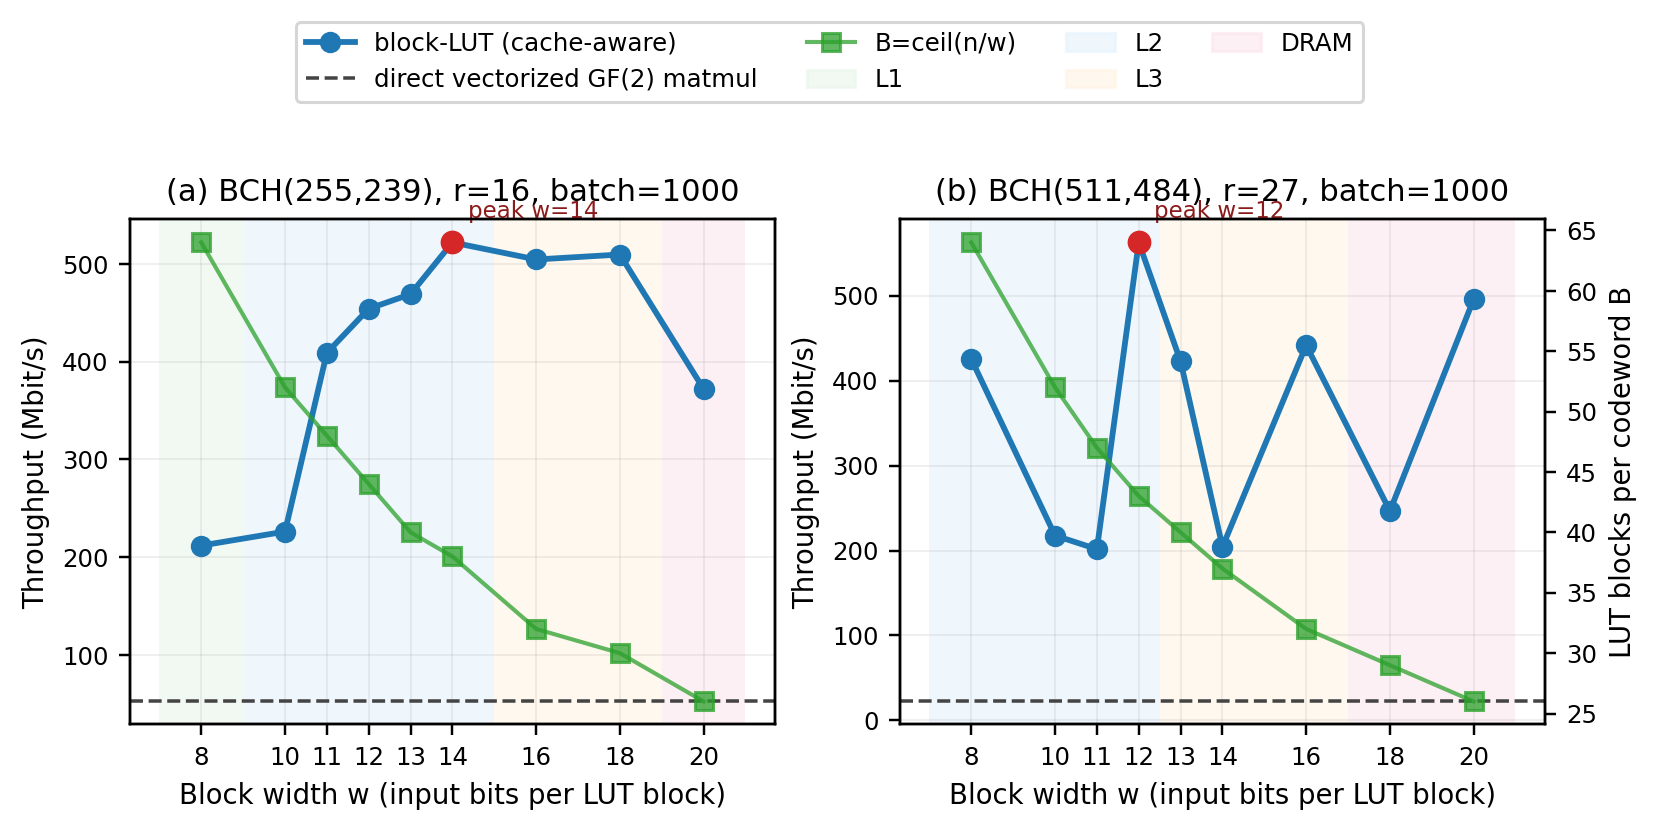
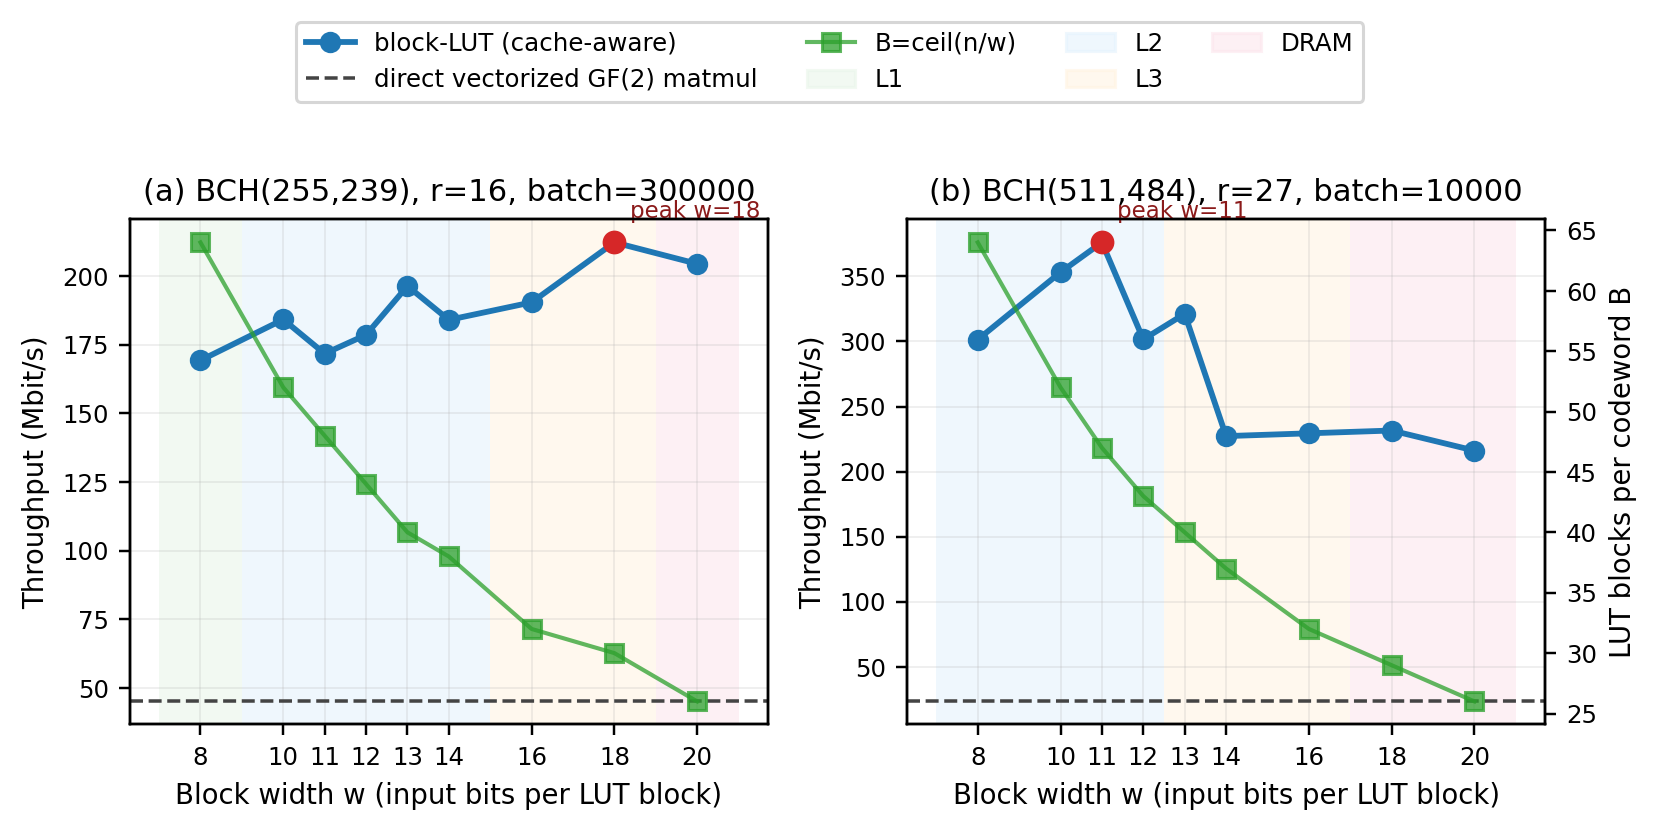
add round30 high-repetition figure data

diff --git a/scripts/plot_paper_fig3.py b/scripts/plot_paper_fig3.py
@@ -24,6 +24,10 @@ DEFAULT_OUTPUT_DIR = ROOT / "results" / "figures"
 OUTPUT_STEM = "fig3_block_width_cache_sweep"
 TASK = "syndrome"
 PREFERRED_BATCH = 1000
+PREFERRED_BATCH_BY_PROFILE = {
+    "bch_255_239_r16": 300_000,
+    "bch_511_484_r27": 10_000,
+}
 BLOCK_WIDTH_LABEL = "Block width w (input bits per LUT block)"
 
 CACHE_COLORS = {
@@ -92,6 +96,9 @@ def select_batch(rows: list[dict[str, Any]], profile: str) -> int:
         and _is_true(row["correctness_passed"])
     ]
     batches = sorted({int(row["batch_size"]) for row in lut_rows})
+    profile_preference = PREFERRED_BATCH_BY_PROFILE.get(profile)
+    if profile_preference in batches:
+        return int(profile_preference)
     if PREFERRED_BATCH in batches:
         return PREFERRED_BATCH
     best_batch = batches[0]

diff --git a/review_gpt/round_30_summary.md b/review_gpt/round_30_summary.md
@@ -220,6 +220,48 @@ Plot scripts:
 
 Fig. 3 now uses block-width notation `w` in labels and annotations.
 
+## High-Repeat Fig. 2/Fig. 3 Data
+
+After the review snapshot, the fixed-map benchmarks were rerun with higher
+repeat count:
+
+```powershell
+python -B -m benchmarks.bench_block_width_cache_sweep --batch-sizes 1000,10000,100000,300000 --block-widths 8,10,11,12,13,14,16,18,20 --repeats 15 --warmups 3 --max-in-memory-rows 300000 --max-timed-batch-size 300000 --max-galois-batch-size 1000 --seed 20260830 --output results/raw/block_width_cache_sweep_highrep.csv
+python -B -m benchmarks.bench_fixed_map_three_backend --batch-sizes 1,10,100,1000,10000,100000,300000 --repeats 15 --warmups 3 --block-width-source results/raw/block_width_cache_sweep_highrep.csv --selection-batch-size 100000 --max-in-memory-rows 300000 --max-timed-batch-size 300000 --max-galois-batch-size 1000 --seed 20260831 --output results/raw/fixed_map_three_backend_highrep.csv
+```
+
+Outputs:
+
+- `results/raw/block_width_cache_sweep_highrep.csv`
+- `results/raw/fixed_map_three_backend_highrep.csv`
+
+Summary:
+
+- block-width high-repeat: 176 rows, 176 exactness pass, 164 timed;
+- three-backend high-repeat: 96 rows, 96 exactness pass, 72 timed;
+- repeats: `15`;
+- warmups: `3`;
+- timed batch sizes extend to `300000`;
+- per-codeword galois timing is capped at batch `1000`.
+
+The regenerated figures now read from these high-repeat CSVs:
+
+```powershell
+python scripts\plot_paper_fig2.py --csv results\raw\fixed_map_three_backend_highrep.csv
+python scripts\plot_paper_fig3.py --csv results\raw\block_width_cache_sweep_highrep.csv
+```
+
+Fig. 3 profile batch choices:
+
+| profile | task | plotted batch | measured peak |
+|---|---|---:|---|
+| BCH(255,239), r=16 | syndrome | 300000 | `w=18`, L3 |
+| BCH(511,484), r=27 | syndrome | 10000 | `w=11`, L2 |
+
+The r27 curve is substantially less jagged than the old `batch=1000` panel,
+but it still has a small secondary bump around `w=13`. No smoothing or
+hand-edited values were used.
+
 ## Verification
 
 Fresh commands completed in this snapshot:
@@ -240,9 +282,6 @@ Observed results:
 
 ## Not Done
 
-- The requested high-repeat Fig. 2/Fig. 3 benchmark reruns were not completed.
-  The regenerated Fig. 3 uses `w` labels, but r27 remains visibly jagged from
-  the existing CSV; no convergence claim is made.
 - No final `min_post_errors=200`, `max_blocks=500000` one-hour capped sweep was
   completed. This review snapshot uses the completed `max_blocks=60000` paired
   run.

diff --git a/review_gpt/latest.md b/review_gpt/latest.md
@@ -12,6 +12,7 @@ Round 30 extends the real local OFEC evidence from Round 29:
 - verify real OFEC BER curves remain pointwise identical after replacing only
   the BCH syndrome/parity backend;
 - regenerate Fig. 2/Fig. 3/Fig. 4-style real OFEC BER figures from CSVs.
+- rerun Fig. 2/Fig. 3 fixed-map data with higher repeats.
 
 Review bundle path:
 
@@ -123,6 +124,35 @@ The local OFEC channel uses normalized 16QAM with average symbol power 1 and
 noise variance per real dimension `1 / (2 * SNR_linear)`. The figure axis is
 therefore labeled `SNR Es/N0 (dB)`.
 
+## High-Repeat Fixed-Map Data
+
+New high-repeat CSVs:
+
+- `results/raw/block_width_cache_sweep_highrep.csv`
+- `results/raw/fixed_map_three_backend_highrep.csv`
+
+Settings:
+
+- repeats: `15`
+- warmups: `3`
+- block-width batch sizes: `1000, 10000, 100000, 300000`
+- three-backend batch sizes: `1, 10, 100, 1000, 10000, 100000, 300000`
+- max timed batch size: `300000`
+- galois per-codeword timing capped at batch `1000`
+
+Exactness/timing summary:
+
+- block-width high-repeat: 176 rows, 176 exactness pass, 164 timed;
+- three-backend high-repeat: 96 rows, 96 exactness pass, 72 timed.
+
+Fig. 3 now plots from the high-repeat CSV. The r16 panel uses batch `300000`;
+the r27 panel uses batch `10000`, selected because the high-repeat
+`batch=1000` row still had visible small-batch noise.
+
+The r27 curve is improved versus the old `batch=1000` panel, but it still has a
+small secondary bump around `w=13`. The result is reported as measured data,
+not smoothed or edited.
+
 ## Figures
 
 Generated from committed CSVs:
@@ -138,9 +168,6 @@ Fig. 3 now uses block width `w` in the axis label and peak annotation.
 
 ## Not Done In This Snapshot
 
-- The requested high-repeat Fig. 2/Fig. 3 reruns were not completed in this
-  snapshot. Fig. 3(b) r27 remains visibly jagged in the existing CSV-derived
-  plot; it is not claimed fixed.
 - No final `min_post_errors=200`, `max_blocks=500000` h=10 one-hour capped
   sweep was completed. The current primary curve is the completed 10-point
   `max_blocks=60000` review sweep.